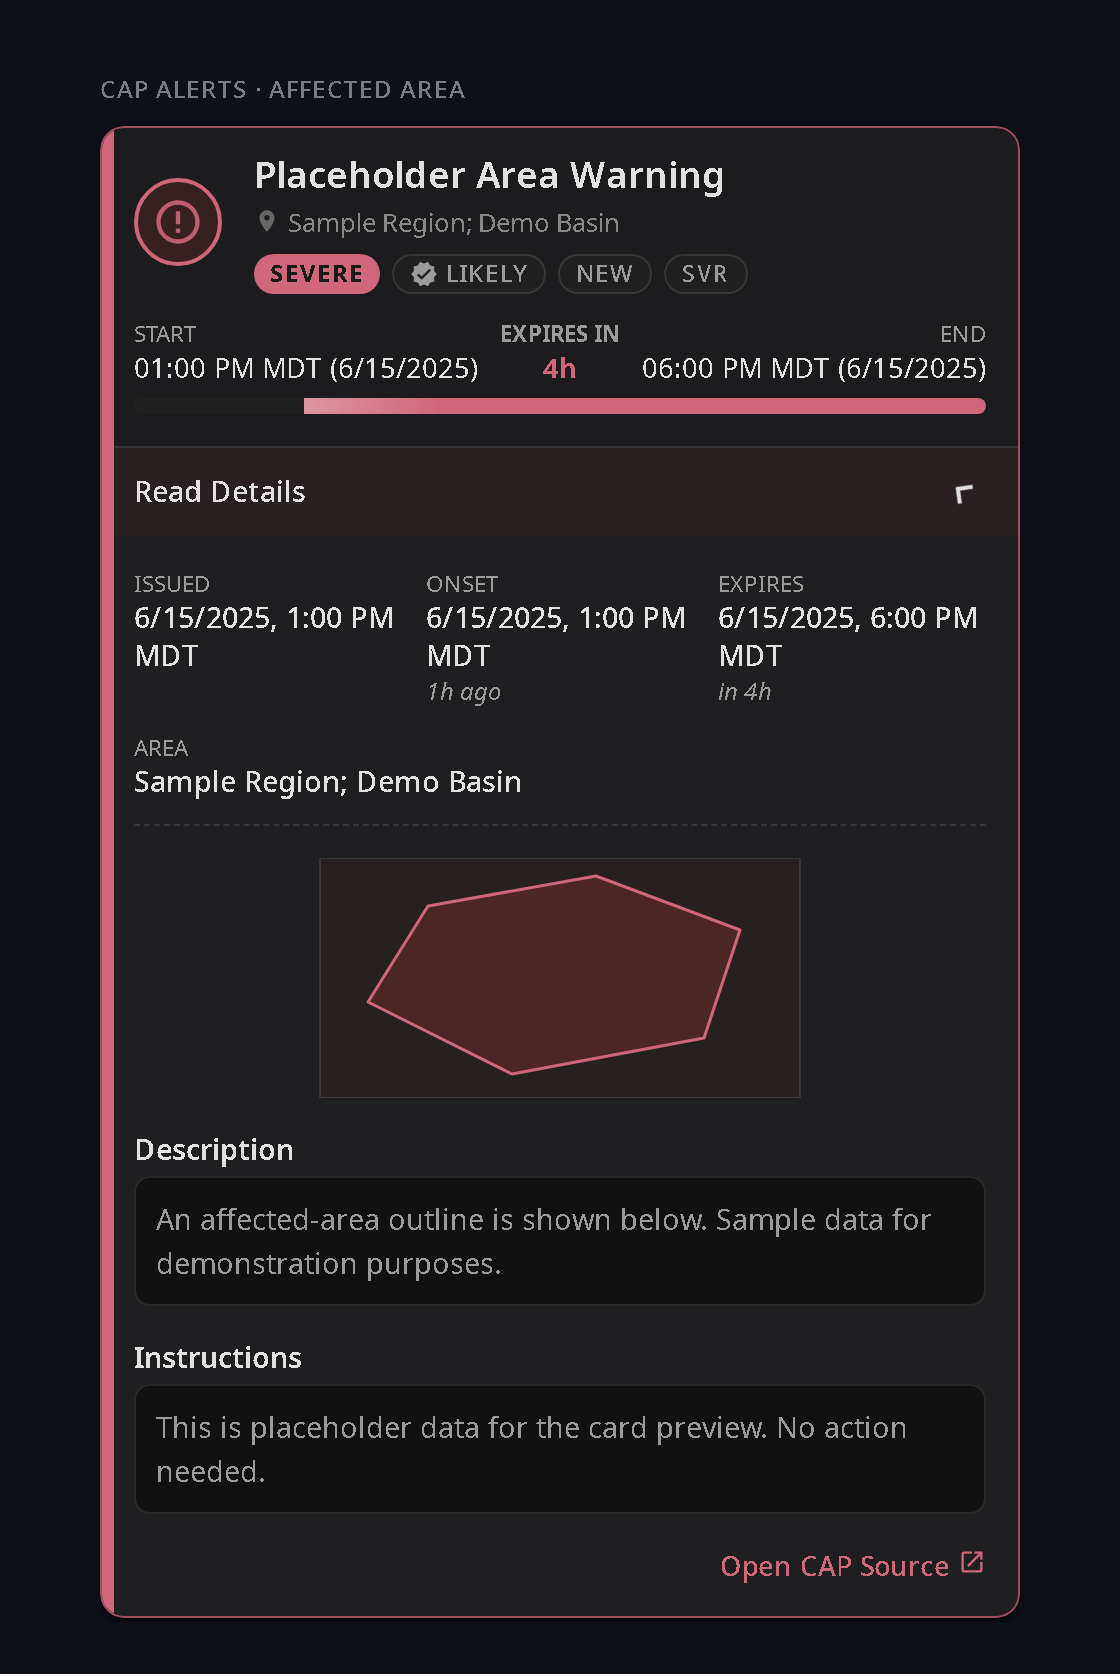
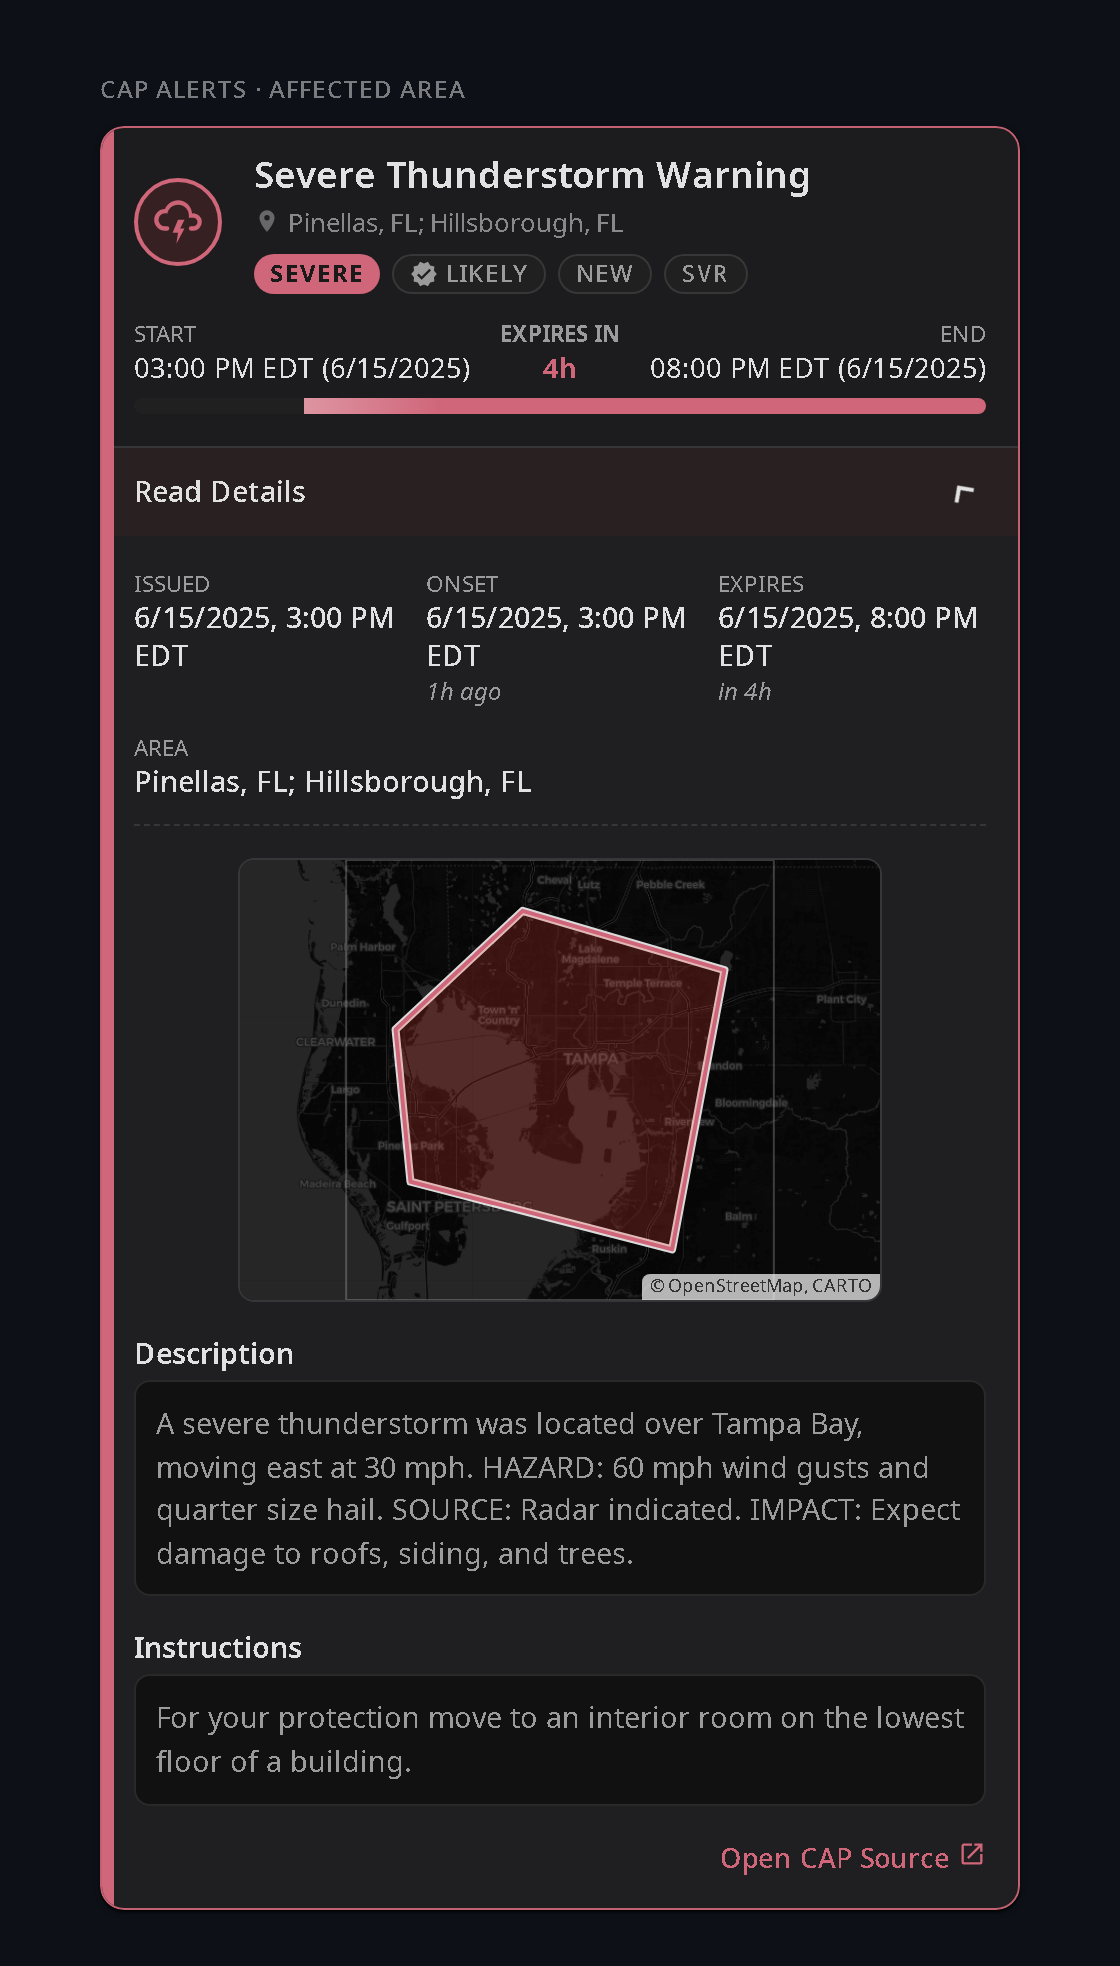
fix(screenshot): render affected-area geometry as a map basemap (#185)
Switch the geometry screenshot scenario to geometryStyle: 'map' so the
affected-area mini-map shows CARTO raster tiles behind the polygon
instead of a bare outline. Replace the abstract near-(0,0) fixture bbox
with real Tampa Bay coordinates and an SVR-style polygon so the tiles
align with an actual location, and pin the harness timezone to
America/New_York for EDT consistency.

Add a tile-load wait to the capture: after the polygon resolves,
re-load each tile <image> href via HTMLImageElement and wait for them
to settle so the basemap is never captured blank. Regenerate
geometry-{light,dark}.png and the self-contained adaptive SVG.

Tooling only — no change to the shipped card.

Pull request: fix(screenshot): render affected-area geometry as a map basemap
## Summary

Tooling only — no change to the shipped card. Switches the affected-area geometry screenshot from the bare polygon outline (`geometryStyle: 'shape'`) to the raster-tile basemap (`'map'`), producing a far more legible illustration image for the README and the `cap_alerts` announcement post.

The old fixture used an abstract bbox near (0, 0) — fine for shape mode's normalized projection, but on real CARTO tiles that's open ocean. So this also gives the fixture **real coordinates** (Tampa Bay metro) with an SVR-style polygon, so tiles and polygon align over an actual, recognizable location.

## Changes

- **`scripts/screenshot-fixtures.js`** — real Tampa Bay `bbox`/polygon + a realistic Severe Thunderstorm Warning headline/description/instruction. The alert text is illustrative, not an archived warning (noted in-comment).
- **`scripts/screenshot-geometry.html`** — `geometryStyle: 'shape'` → `'map'`; harness timezone → `America/New_York` so a Florida alert reads EDT, not MDT.
- **`scripts/screenshot.js`** — added a tile-load wait: after the polygon resolves, re-load each tile `<image>` href via `HTMLImageElement` and wait for them to settle so the basemap is never captured blank. No-op guard keeps it safe if the scenario ever reverts to shape mode.
[…]

diff --git a/scripts/screenshot-fixtures.js b/scripts/screenshot-fixtures.js
@@ -270,14 +270,18 @@ export const ECCC_ALERTS = [
 // of CAP fields plus the `incident_platform_version` marker. bbox is lon-first
 // [minlon, minlat, maxlon, maxlat]. The full polygon is fetched out-of-band via
 // the `cap_alerts/geometry` WS command keyed by geometry_ref — see
-// CAP_GEOMETRY_STUB below for a renderable stub payload. Obviously-fake demo
-// data (no real location/coords).
+// CAP_GEOMETRY_STUB below for a renderable stub payload.
+//
+// Uses real lon/lat over the Tampa Bay area so the `geometryStyle: 'map'`
+// raster basemap aligns with actual tiles (a fabricated bbox near 0,0 would
+// render open ocean). The polygon below is an illustrative SVR-style outline,
+// not a record of a real warning.
 export const CAP_GEOMETRY_REF = 'screenshot-geom-ref-1';
 
 export const CAP_GEOMETRY_ALERT_ATTRS = {
   incident_platform_version: '1.0',
   id: 'urn:oid:2.49.0.1.840.0.screenshot-geom',
-  event: 'Placeholder Area Warning',
+  event: 'Severe Thunderstorm Warning',
   severity: 'Severe',
   severity_normalized: 'severe',
   certainty: 'Likely',
@@ -285,22 +289,27 @@ export const CAP_GEOMETRY_ALERT_ATTRS = {
   sent: iso(-1 * H),
   onset: iso(-1 * H),
   expires: iso(4 * H),
-  headline: 'Placeholder Area Warning for the Sample Region',
-  area_desc: 'Sample Region; Demo Basin',
-  description: 'An affected-area outline is shown below. Sample data for demonstration purposes.',
-  instruction: 'This is placeholder data for the card preview. No action needed.',
+  headline: 'Severe Thunderstorm Warning for the Tampa Bay Area',
+  area_desc: 'Pinellas, FL; Hillsborough, FL',
+  description:
+    'A severe thunderstorm was located over Tampa Bay, moving east at 30 mph. ' +
+    'HAZARD: 60 mph wind gusts and quarter size hail. SOURCE: Radar indicated. ' +
+    'IMPACT: Expect damage to roofs, siding, and trees.',
+  instruction:
+    'For your protection move to an interior room on the lowest floor of a building.',
   url: 'https://example.com/alerts/screenshot-geom',
   event_code_nws: 'SVR',
   provider: 'nws',
   phase: 'new',
-  bbox: [-2, -1, 2, 1],
+  // [minlon, minlat, maxlon, maxlat] — Tampa Bay metro, ~0.45° square.
+  bbox: [-82.72, 27.72, -82.28, 28.12],
   geometry_ref: CAP_GEOMETRY_REF,
 };
 
 // Stub GeoJSON FeatureCollection — the shape the `cap_alerts/geometry` WS
 // command returns. A harness with a mock connection can resolve geometry_ref
-// to this so the polygon overlays the bbox frame. A simple convex blob inside
-// the bbox above.
+// to this so the polygon overlays the bbox frame. A slanted SVR-style quad
+// (lon, lat) inside the bbox above, crossing the bay and both peninsulas.
 export const CAP_GEOMETRY_STUB = {
   type: 'FeatureCollection',
   features: [
@@ -310,13 +319,12 @@ export const CAP_GEOMETRY_STUB = {
       geometry: {
         type: 'Polygon',
         coordinates: [[
-          [-1.6, -0.2],
-          [-0.4, -0.8],
-          [1.2, -0.5],
-          [1.5, 0.4],
-          [0.3, 0.85],
-          [-1.1, 0.6],
-          [-1.6, -0.2],
+          [-82.70, 27.80],
+          [-82.35, 27.72],
+          [-82.28, 28.05],
+          [-82.55, 28.12],
+          [-82.72, 27.98],
+          [-82.70, 27.80],
         ]],
       },
     },

diff --git a/scripts/screenshot.js b/scripts/screenshot.js
@@ -253,6 +253,25 @@ const PORT = 3742;
           return !!card?.shadowRoot?.querySelector('.alert-geometry .geometry-shape');
         }, { timeout: 10000 });
         await page.evaluate(id => document.getElementById(id).updateComplete, 'card-geometry');
+
+        // 'map' style draws CARTO raster tiles as SVG <image> elements fetched
+        // over the network. The polygon-shape wait above fires before those
+        // tiles finish loading, so capture too early and the basemap is blank.
+        // Re-load each tile href via HTMLImageElement (hits the browser cache)
+        // and wait for them all to settle before screenshotting.
+        await page.evaluate(async () => {
+          const card = document.getElementById('card-geometry');
+          const svg = card?.shadowRoot?.querySelector('.alert-geometry.map');
+          if (!svg) return; // 'shape' style (no tiles) — nothing to wait for
+          const hrefs = [...svg.querySelectorAll('image')]
+            .map(im => im.getAttribute('href') || im.getAttribute('xlink:href'))
+            .filter(Boolean);
+          await Promise.all(hrefs.map(href => new Promise(resolve => {
+            const probe = new Image();
+            probe.onload = probe.onerror = () => resolve();
+            probe.src = href;
+          })));
+        });
         await page.evaluate(() => new Promise(r => requestAnimationFrame(r)));
       },
     },

diff --git a/scripts/screenshot-geometry.html b/scripts/screenshot-geometry.html
@@ -86,7 +86,7 @@
 
   <div class="geometry-canvas" id="geometry-canvas">
 
-    <!-- CAP Alerts affected-area outline (showGeometry, 'shape' style) -->
+    <!-- CAP Alerts affected-area mini-map (showGeometry, 'map' style) -->
     <div class="showcase">
       <div class="section-label">CAP Alerts &middot; Affected Area</div>
       <div class="card-inner">
@@ -169,7 +169,7 @@
 
     const MOCK_HASS = {
       locale: { language: 'en', time_format: '12', date_format: 'MDY' },
-      config: { time_zone: 'America/Denver' },
+      config: { time_zone: 'America/New_York' },
       connection: MOCK_CONNECTION,
       states: {
         [CAP_ENTITY]: {
@@ -187,7 +187,7 @@
       animations: false,
       colorTheme: 'severity',
       showGeometry: true,
-      geometryStyle: 'shape',
+      geometryStyle: 'map',
     });
     card.hass = MOCK_HASS;
   </script>